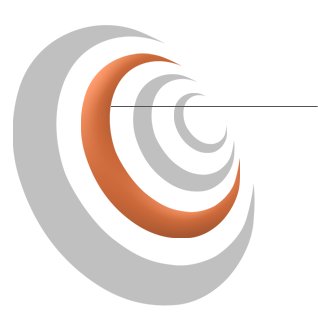
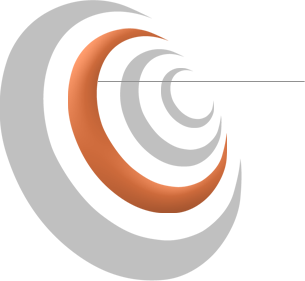
Enviado para validacion

Changed region(s): [[0.0, 0.0, 1.0, 1.0], [0.5311, 0.484, 0.6492, 0.5409]]

diff --git a/css/style.css b/css/style.css
@@ -102,10 +102,10 @@
 	float: left;
 }
 #seccion2 .contenedor .wrap_ring > .col1 #anillos {
-	width: 318px;
 	height: 332px;
 	margin-left: 101px;
-	margin-top: 20px;
+	margin-top: 40px;
+	width: 318px;
 }
 #seccion2 .contenedor .wrap_ring > .col2 {
 	background: url("../images/home/ring/bg_tabs_ring.jpg") no-repeat 494px 0px transparent;
@@ -114,11 +114,28 @@
 	overflow: hidden;
 	width: 534px;
 }
+/*
 #seccion2 .contenedor .wrap_ring > .col2 .frase {
 	color: #7C7C7C;
 	width: 236px;
 	font-size: 19px;
 }
+*/
+@font-face {
+font-family: "DINCond-Regular";
+src: url(../media/fonts/DINCond-Regular.otf) format("truetype");
+}
+#seccion2 .contenedor .wrap_ring > .col2 .frase { 
+	color: #7C7C7C;
+	font-family: "DINCond-Regular",sans-serif;
+	font-size: 19px;
+	font-style: italic;
+	position: absolute;
+	top: 390px;
+	width: 240px;
+	
+}
+
 #seccion2 .contenedor .wrap_ring > .col2 .vFlotante {
 	height: 94px;
 	left: 494px;

diff --git a/index.php b/index.php
@@ -21,7 +21,7 @@
 		Cufon.replace(".vFlotante .titu_menuring",{fontFamily:"DIN Alternate Medium"});
 		Cufon.replace(".vFlotante .subtitu_menuring,#seccion4",{fontFamily:"DIN Alternate Light"});
 		Cufon.replace(".text_tab",{fontFamily:"DINCond-Medium"});
-		Cufon.replace(".frase",{fontFamily:"DINCond-Regular"});
+		//Cufon.replace(".frase",{fontFamily:"DINCond-Regular"});
 	</script>
 	<script type="text/javascript">
 	$(document).ready( function (){
@@ -43,23 +43,23 @@
             switch (id_tab) {
 	            case "item2_ring":
 	            	$("#areasring").attr("src","images/home/ring/anillo-naranjo.png");
-	            	arriba = "-58px";
+	            	arriba = "-74px";
 	            	colorfondo = "#FA653D";
 					break;
 	            case "item3_ring":
 	            	$("#areasring").attr("src","images/home/ring/anillo-amarillo.png");
 	            	colorfondo = "#FCC62B";
-	            	arriba = "-153px";
+	            	arriba = "-158px";
 					break;
 	            case "item4_ring":
 	            	$("#areasring").attr("src","images/home/ring/anillo-todos-colores.png");
 	            	colorfondo = "#57B3D4";
-	            	arriba = "-247px";
+	            	arriba = "-252px";
 					break;
 	            default:
 	            	$("#areasring").attr("src","images/home/ring/anillo-verde.png");
 	            	colorfondo = "#009142";
-	            	arriba = "35px";
+	            	arriba = "30px";
         	}
 
         	//expander pestaña
@@ -92,13 +92,13 @@
 
         //abrir en cada cierto tiempo un tab
 		nro_tab = 1;	
-		$.timer(10000, function(temporizador){
+		$.timer(15000, function(temporizador){
 			   id_item_ring = "#item" + nro_tab + "_ring";
 			   $(id_item_ring).trigger('click' );
 			   nro_tab++;
 			   if (nro_tab == 5) {
 				   nro_tab = 1;
-				   temporizador.reset(10000);
+				   temporizador.reset(15000);
 			   }
 		});  
 
@@ -190,7 +190,7 @@
 		<div class="wrap_ring">
 			<div class="col1">
 				<div id="anillos">
-					<img id="areasring" name="areasring" src="images/home/ring/anillo-verde.png" alt="Anillo"  width="318" height="332" border="0" usemap="#arearingseleccionable">
+					<img id="areasring" name="areasring" src="images/home/ring/anillo-verde.png" alt="Anillo"  width="305" height="281" border="0" usemap="#arearingseleccionable">
 					<map name="arearingseleccionable">
 						<area id="areatab1" shape="poly" coords="163,41,131,28,118,25,104,25,95,25,87,27,75,30,64,35,52,42,44,49,34,58,27,69,21,81,16,96,13,110,13,121,13,143,15,160,17,168,19,178,33,212,49,239,66,259,94,282,123,298,140,303,147,304,174,306,190,302,212,292,222,283,232,272,239,261,246,248,251,235,253,220,254,201,253,186,252,195,249,203,248,211,245,222,238,234,221,252,215,256,205,260,195,264,177,265,170,265,160,262,151,260,141,256,132,252,124,248,117,243,108,235,99,226,90,216,83,206,76,197,70,184,62,169,59,155,57,141,56,129,56,117,56,111,57,98,61,88,62,81,68,71,74,62,82,55,91,47,99,43,110,38,124,36" href="javascript:void(0);" target="_self" alt="tab1" />
 						<area id="areatab2" shape="poly" coords="179,64,158,55,147,53,139,53,129,55,117,59,106,65,96,74,91,81,85,93,82,104,81,112,80,130,81,137,83,147,85,154,89,164,93,174,98,184,104,193,110,201,117,209,129,219,147,229,165,236,193,237,217,224,228,212,235,199,238,189,240,177,239,159,236,177,233,184,230,190,223,198,216,205,204,210,195,212,186,212,175,210,163,206,156,203,147,196,137,188,130,179,124,170,117,158,113,148,110,136,109,124,109,113,110,106,113,95,116,86,122,77,131,69,141,64,149,62,159,61" href="javascript:void(0);" target="_self" alt="tab2" />
@@ -201,7 +201,7 @@
 			</div>
 			<div class="col2">
 				<div class="frase">
-					<p>“Este es un texto cufon que no aparece igual que en photoshop.”
+					<p>"You can only manage what you measure and can only optimise what you control."
 					</p>
 				</div>
 				<ul id="menuring">
@@ -230,6 +230,10 @@
 									<p class="titu_menuring" >PORTAGE PARC</p>
 									<p class="subtitu_menuring">Portage Advanced Regulatory Control</p>
 								</a>
+								<a id="portage_ppc_tab2" href="http://www.kenya.cl" title="PORTAGE PPC" target="_self">
+									<p class="titu_menuring" >PORTAGE PPC</p>
+									<p class="subtitu_menuring">Portage Progressive Control</p>
+								</a>								
 							</li>
 						</ul>						
 					</li>
@@ -245,7 +249,11 @@
 								<a id="portage_aware_insight" href="http://www.google.cl" title="Portage AWARE INSIGHT" target="_self">
 									<p class="titu_menuring" >PORTAGE AWARE INSIGHT</p>
 									<p class="subtitu_menuring">Portage Control Loops Monitoring</p>
-								</a>							
+								</a>
+								<a id="portage_ppc_tab3" href="http://www.kenya.cl" title="PORTAGE PPC" target="_self">
+									<p class="titu_menuring" >PORTAGE PPC</p>
+									<p class="subtitu_menuring">Portage Progressive Control</p>
+								</a>																
 							</li>
 						</ul>							
 					</li>
@@ -257,7 +265,11 @@
 								<a id="portage_ffp" href="http://www.kenya.cl" title="Portage PFC" target="_self">
 									<p class="titu_menuring" >PORTAGE FFP</p>
 									<p class="subtitu_menuring">Portage Fit for Purpose</p>
-								</a>							
+								</a>
+								<a id="portage_ppc_tab4" href="http://www.kenya.cl" title="PORTAGE PPC" target="_self">
+									<p class="titu_menuring" >PORTAGE PPC</p>
+									<p class="subtitu_menuring">Portage Progressive Control</p>
+								</a>																
 							</li>
 						</ul>		
 					</li>
